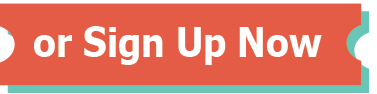
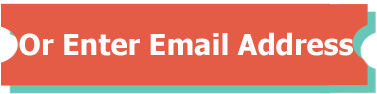
add new images, update styling for iOS and Android Material

Changed region(s): [[0.0, 0.0213, 1.0, 1.0], [0.0, 0.8936, 0.8753, 1.0]]

diff --git a/mobile/www/index.html b/mobile/www/index.html
@@ -30,7 +30,7 @@
     <!-- Login View -->
     <div data-role="view" id="fi-login-view" data-layout="fi-login-layout">
         <div id="login_container">
-<!--            <div class="button_red">Login In</div>-->
+           <!--<div class="button_red">Login In</div>-->
             <a id="login-facebook-open-button" href="fi-mainmenu-view" data-role="button">
                 <img class="login_button" id="login_facebook_button" src="images/login_facebook.png"/>
             </a>
@@ -52,11 +52,11 @@
         </footer>-->
     </div>
     
-    <!-- User Sign Up Modal View (Email, Password,) -->
+    <!-- User Sign Up/Login Modal View (Email, Password,) -->
     <div data-role="modalview" id="signup-modalview" style="width:90%">
         <div data-role="header">
             <div data-role="navbar">
-                <span>SignUp</span>
+                <span>Log in</span>
                 <a data-click="closeModalViewLogin" data-role="button" data-align="right">Cancel</a>
             </div>
         </div>
@@ -64,18 +64,10 @@
         <ul data-role="listview" data-style="inset">
             <li><label for="email">Email: <input type="email" id="email" /></label></li>
             <li><label for="password">Password: <input type="password" id="password" /></label></li>
-            <li><label for="birthday">Birthday: <input type="date" id="birthday" value="2014-12-01"/></label></li>
-            <li>
-                <label>Gender
-                    <select id="gender">
-                        <option value="First Option">Male</option>
-                        <option value="Second Option">Female</option>
-                    </select>
-                </label>
-            </li>
-            
         </ul>
-        <a data-click="closeModalViewLogin" data-click="loadjsonData()" href="fi-mainmenu-view" id="modalview-login-button" type="button" data-role="button">Submit</a>
+        <div class="center">
+            <a data-click="closeModalViewLogin" data-click="" href="fi-mainmenu-view" id="modalview-login-button" type="button" data-role="button">Submit</a>
+        </div>
     </div>
     
     <!-- Main Menu View -->
@@ -85,7 +77,7 @@
                 <img class="scale_fit" id="upcoming_events_img" src="images/upcoming_events.png"/>
             </div>
             <a id="playtot-button" href="fi-playtot-view" data-role="button">
-                <img id="play_button_img" src="images/play_tot.png"/>
+                <img id="play_button_img" src="images/discover_fav_gifts.png"/>
             </a>
             <div class="left">
                 <div id="person_container">
@@ -111,7 +103,7 @@
         <div data-role="header">
             <div data-role="navbar">
                 <span>Favorites</span>
-                <a data-click="closeFavoritesModalView" data-role="button" data-align="right">X</a>
+                <a data-click="closeFavoritesModalView" data-role="button" data-align="right">Cancel</a>
             </div>
         </div>
         <div id="favorites_modalview_container" class="center">
@@ -221,6 +213,7 @@
     
     <!-- Gift Suggestions View-->
     <div data-role="view" id="fi-gift-suggestions-view" data-layout="fi-gift-suggestions-layout">
+        <div class="title center"><img class="title_image" src="images/giftbox.png"/>Gift Suggestions</div>
         <div id="gift_suggestions_container" class="center">
             <div id="scrollview" data-role="scrollview">
                 <div data-role="page" >
@@ -231,14 +224,14 @@
                                     <div>
                                         <img class="suggestions_photo" src="http://www.gamestop.com/common/images/lbox/240129b.jpg" />
                                         <br>
-                                        <a data-role="button">GET</a>
+                                        <a data-role="button" data-icon="cart">GET</a>
                                     </div>
                                 </td>
                                 <td>
                                     <div>
                                         <img class="suggestions_photo" src="http://www.gamestop.com/common/images/lbox/240262b.jpg" />
                                         <br>
-                                        <a data-role="button" href="fi-retailer-select-view">GET</a>
+                                        <a data-role="button" href="fi-retailer-select-view" data-icon="cart">GET</a>
                                         <p></p>
                                     </div>
                                 </td> 
@@ -248,14 +241,14 @@
                                     <div>
                                         <img class="suggestions_photo" src="http://www.gamestop.com/common/images/lbox/240172b1.jpg" />
                                         <br>
-                                        <a data-role="button">GET</a>
+                                        <a data-role="button" data-icon="cart">GET</a>
                                     </div>
                                 </td>
                                 <td>
                                     <div>
                                         <img class="suggestions_photo" src="http://www.gamestop.com/common/images/lbox/240274b.jpg" />
                                         <br>
-                                        <a data-role="button">GET</a>
+                                        <a data-role="button" data-icon="cart">GET</a>
                                     </div>
                                 </td> 
                             </tr>
@@ -270,14 +263,14 @@
                                     <div>
                                         <img class="suggestions_photo" src="http://a1.zassets.com/images/z/2/8/7/6/3/3/2876335-p-MULTIVIEW.jpg" />
                                         <br>
-                                        <a data-role="button">GET</a>
+                                        <a data-role="button" data-icon="cart">GET</a>
                                     </div>
                                 </td>
                                 <td>
                                     <div>
                                         <img class="suggestions_photo" src="http://a9.zassets.com/images/z/2/8/5/6/7/1/2856712-p-MULTIVIEW.jpg" />
                                         <br>
-                                        <a data-role="button">GET</a>
+                                        <a data-role="button" data-icon="cart">GET</a>
                                         <p></p>
                                     </div>
                                 </td> 
@@ -287,14 +280,14 @@
                                     <div>
                                         <img class="suggestions_photo" src="http://a1.zassets.com/images/z/3/0/4/4/0/4/3044040-p-MULTIVIEW.jpg" />
                                         <br>
-                                        <a data-role="button">GET</a>
+                                        <a data-role="button" data-icon="cart">GET</a>
                                     </div>
                                 </td>
                                 <td>
                                     <div>
                                         <img class="suggestions_photo" src="http://a1.zassets.com/images/z/2/9/3/0/6/1/2930616-p-MULTIVIEW.jpg" />
                                         <br>
-                                        <a data-role="button">GET</a>
+                                        <a data-role="button" data-icon="cart">GET</a>
                                     </div>
                                 </td> 
                             </tr>
@@ -340,14 +333,21 @@
                 <img class="fi-retailer-photo" src="http://www.justpushstart.com/wp-content/uploads/2012/08/best-buy-logo.jpeg" />
                 <h3 class="item-title">Bestbuy</h3>
                 <p class="item-price">$59.99</p>
-                <a data-role="button" class="details-operation">Find</a>
+                <a data-role="button" class="details-operation" data-rel="actionsheet" href="#retailer_actionsheet" data-icon="globe">Find</a>
             </li>
             <li>
                 <img class="fi-retailer-photo" src="http://www.gamestop.com/gs/logos/files/GameStopLogo_BlackRed.jpg" />
                 <h3 class="item-title">Gamestop</h3>
-                <p class="item-price">$59.96</p>
+                <p class="item-price">$59.96<br><img class="moda_supported" src="images/modapayments_logo.png"/></p>
                 <a data-role="button" class="details-operation">Gift</a>
             </li>
+        </ul>
+        
+        <!-- ActionSheet for Actions related to Retailers-->
+        <ul id="retailer_actionsheet" data-role="actionsheet">
+            <li class="km-actionsheet-title"></li>
+            <li><a>Locate Nearest Store</a></li>
+            <li><a>Visit Web Page</a></li>
         </ul>
     </div>
     
@@ -367,9 +367,11 @@
     
     <!-- Load the KendoUI Library & "fi-login-view" View Initially  -->
     <script>
-        var app = new kendo.mobile.Application($(document.body), {
-            initial: "fi-login-view"
-        });  
+        var app = new kendo.mobile.Application($(document.body), 
+                                               {skin:"material"}, //Set skin to Android Material Light
+                                               /*{platform: "ios7"},*/
+                                               {initial: "fi-login-view"}
+                                              );  
     </script>
 </body>
 </html>

diff --git a/mobile/www/css/main.css b/mobile/www/css/main.css
@@ -1,19 +1,27 @@
+
+
 .scale_fit, table {
     width: 90%;
 }
 
+/*Width of the Login button */
 .login_button {
     width: 90%;
 }
 
 .header_logo {
-    width:25%;
+    width: 25%;
+    max-width: 120px;
 }
 
 #mainmenu_container, #login_container, .selection, #divider, .center, table {
     margin-left: auto;
     margin-right: auto;
     text-align: center;
+}
+
+#modalview-login-button, #favorites_modalview_container a {
+    font-size:1.3em;
 }
 
 #login_container {
@@ -25,12 +33,13 @@
     padding-top: 4vh;
 }
 
+
+
 /*Add margin to the top and bottom*/
 #favorites_modalview_container a {
     margin-top: 4vh;
     margin-bottom: 4vh;
     font-weight: bold;
-    font-size: 1.3em;
 }
 
 
@@ -155,8 +164,8 @@ a img {
     top: 50%;
 }
 
-
-.km-navbar {
+/*Change the background color of the header for iOS and Android Material*/
+.km-navbar, .km-material .km-navbar .km-view-title, .km-material .km-navbar .km-button {
     background-color: #16a085 !important;
 }
 
@@ -209,9 +218,9 @@ a img {
 }
 
 #prev-img {
-    left: -5px;;
+    left: -5px;
     background: url('../images/next_button.png') no-repeat 50% 50%;
-    background-size: 100% 100%;
+    background-size: 100% 105%;
     /*Flip 180 degrees*/
     -ms-transform: rotate(180deg); /* IE 9 */
     -webkit-transform: rotate(180deg); /* Chrome, Safari, Opera */
@@ -221,17 +230,7 @@ a img {
     left: auto;
     right: -5px;
     background: url('../images/next_button.png') no-repeat 50% 50%;
-    background-size: 100% 100%;
-}
-a#prev-img:hover {
-    background: url('../images/next_button.png') no-repeat 50% 50% rgba(0,0,0,.3);
-    background-size: 100% 100%;
-    opacity: 1;
-}
-a#next-img:hover  {
-    background: url('../images/next_button.png') no-repeat 50% 50% rgba(0,0,0,.3);
-    background-size: 100% 100%;
-    opacity: 1;
+    background-size: 100% 105%;
 }
 
 /*Reduce Gift suggestion photos size */
@@ -239,3 +238,19 @@ a#next-img:hover  {
     width: 70%;
 }
 
+/*Title styling*/
+.title {
+    color: #e74c3c;
+    font-size: 1.5em;
+    font-style: italic;
+}
+
+.title_image {
+    width:8%;
+
+}
+
+/*Moda Logo scaling*/
+.moda_supported {
+    width: 30%;
+}

diff --git a/mobile/www/js/main.js b/mobile/www/js/main.js
@@ -1,3 +1,14 @@
+//  Prevent Default Scrolling  
+var preventDefaultScroll = function(event) 
+{
+    // Prevent scrolling on this element
+    event.preventDefault();
+    window.scroll(0,0);
+    return false;
+};
+    
+window.document.addEventListener("touchmove", preventDefaultScroll, false);
+
 //Execute after the DOM finishes loading
 $(
     function () {
